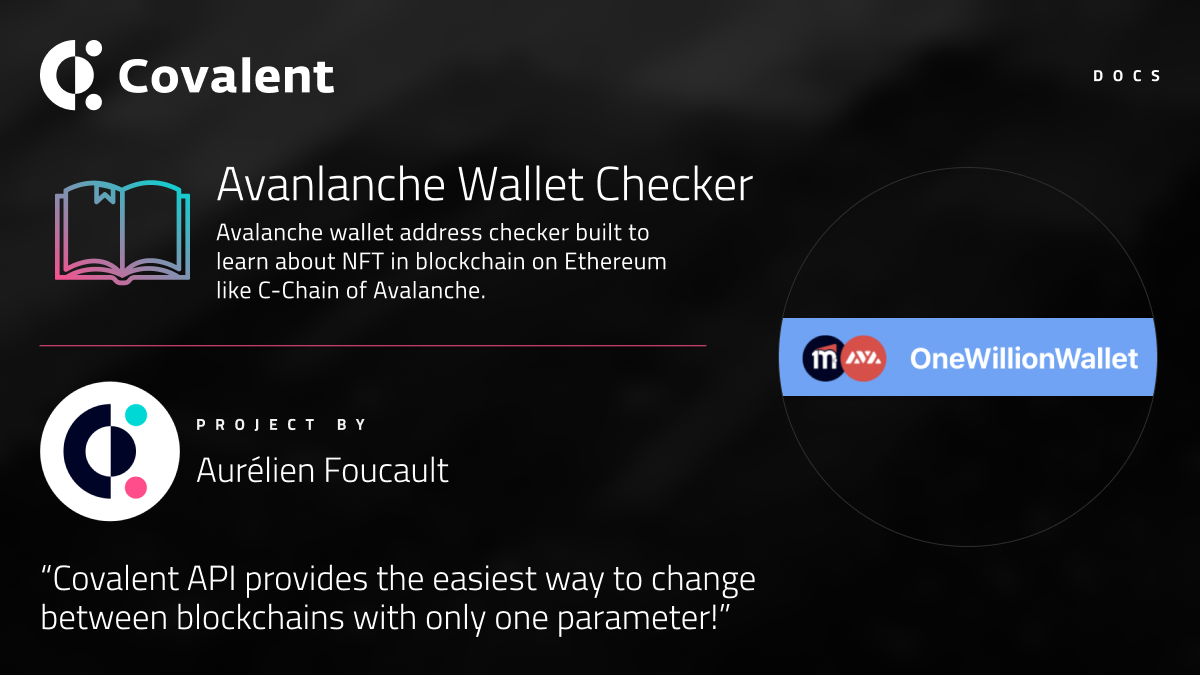
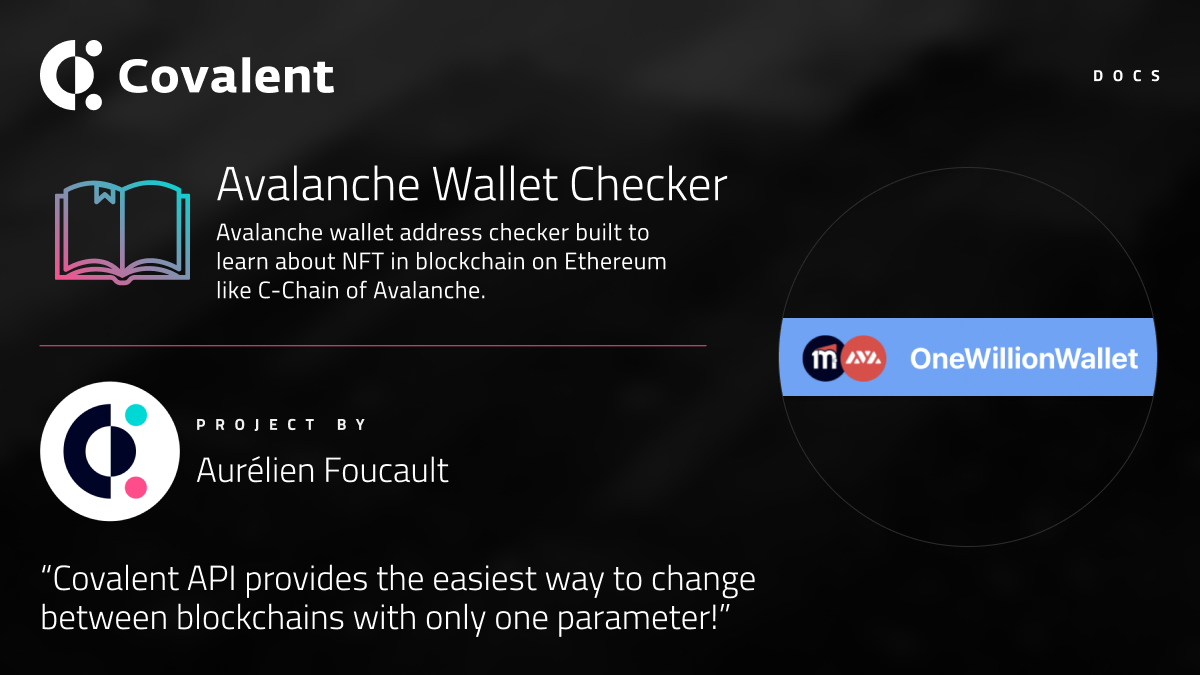
fix: typo fixes in the project showcase (#29)

Changed region(s): [[0.2467, 0.2489, 0.6475, 0.3111]]

diff --git a/docs/content/tools/token-holders.md b/docs/content/tools/token-holders.md
@@ -8,7 +8,7 @@ import TokenHolders from "../../components/token-holders.js";
 
 # Token Holders
 
-Use this tool to export the list of token holders and their balances as of any historical block height across the supported blockchains. If you want to progrmatically do this - use the [`token_holders` endpoint](https://www.covalenthq.com/docs/api/#get-/v1/{chain_id}/tokens/{address}/token_holders/) on the Covalent API. 
+Use this tool to export the list of token holders and their balances as of any historical block height across the supported blockchains. If you want to write code to do this - use the [`token_holders` endpoint](https://www.covalenthq.com/docs/api/#get-/v1/{chain_id}/tokens/{address}/token_holders/) on the Covalent API. 
 
 <p>
   <TokenHolders />

diff --git a/docs/content/project-showcase/nftree.md b/docs/content/project-showcase/nftree.md
@@ -9,7 +9,7 @@ description: This project allows users to save and invest crypto in a fun new wa
 ![NFTree Banner](./images/nftree.png)
 
 &nbsp;
-# Nifty NFTs
+# NFTree
 
 ### Website
 https://nftreetoken.com/
@@ -23,7 +23,7 @@ I love that it uses human inputs like ticker symbols and dates rather than contr
 
 &nbsp;
 ### Use of Covalent API
-Hitting API and getting json to convert block numbers to dates, get historical prices in date ranges. Used the COvalent API to get NFT holdings for an address to display images in wallet/gallert.
+Hitting API and getting json to convert block numbers to dates, get historical prices in date ranges. Used the Covalent API to get NFT holdings for an address to display images in wallet/gallery.
 
 &nbsp;
 ### Event

diff --git a/docs/content/project-showcase/omw-awc.md b/docs/content/project-showcase/omw-awc.md
@@ -6,10 +6,10 @@ featuredImage: ./images/omw-awc.png
 description: Avalanche wallet address checker built to learn about NFT in blockchain on Ethereum like C-Chain of Avalanche
 ---
 
-![Collectors Cafe Banner](./images/omw-awc.png)
+![Avalanche Wallet Checker Banner](./images/omw-awc.png)
 
 &nbsp;
-# Collectors Cafe
+# Avalanche Wallet Checker
 
 ### Website
 https://onemillionwallets.aurelienfoucault.fr/

diff --git a/docs/content/project-showcase/nifty-nfts.md b/docs/content/project-showcase/nifty-nfts.md
@@ -37,5 +37,5 @@ The project was built as part of the Covalent [Alchemist](https://www.covalenthq
 ### Developers
 
 - Corina Pascu: *Discord - @snowdot#8235*
-- Samer Hader: *Discord - @GodSamix#6189*
+- Samer Haider: *Discord - @GodSamix#6189*
 
